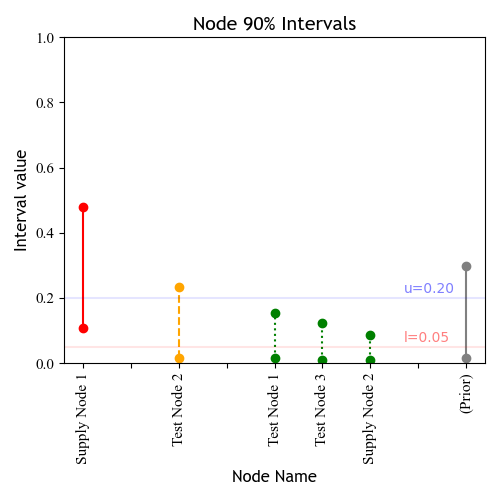
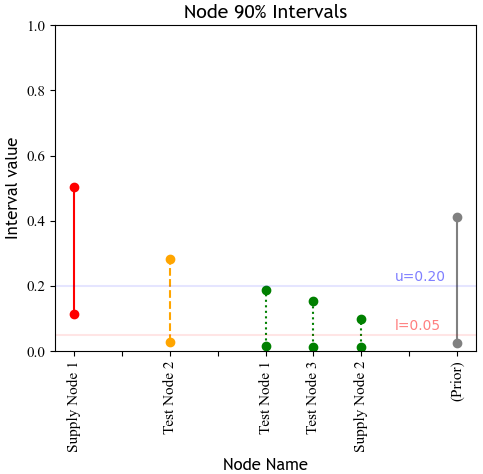
some small changes for paper items

Changed region(s): [[0.0, 0.0295, 0.9938, 0.9451], [0.3727, 0.0, 0.7453, 0.0886], [0.4658, 0.9451, 0.6522, 1.0]]

diff --git a/MQDscript2.py b/MQDscript2.py
@@ -5991,7 +5991,7 @@ def MQDdataScript():
 
     # Generate samples for paper example in Section 3, to be used in Section 5
     lgDict = {}
-    priorMean, priorVar = -2.5, 1
+    priorMean, priorVar = -2, 1
     numPostSamps = 1000
     MCMCdict = {'MCMCtype': 'NUTS', 'Madapt': 5000, 'delta': 0.4}
     int50 = sps.norm.ppf(0.50, loc=priorMean, scale=np.sqrt(priorVar))
